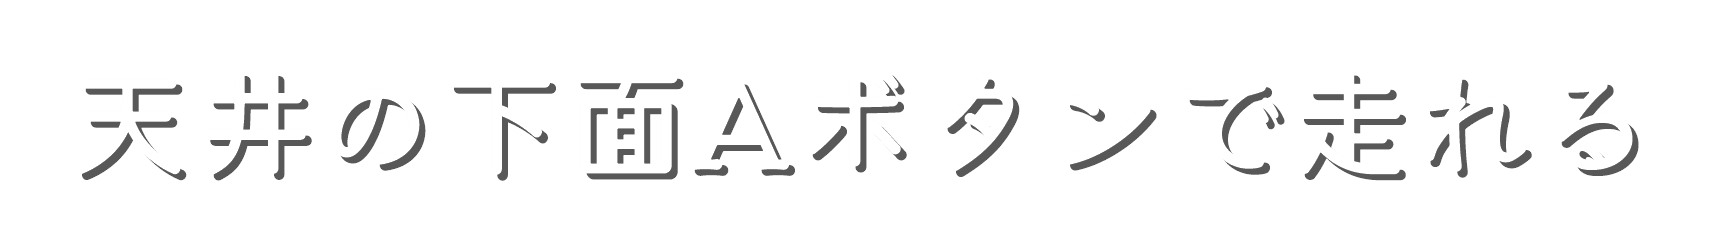
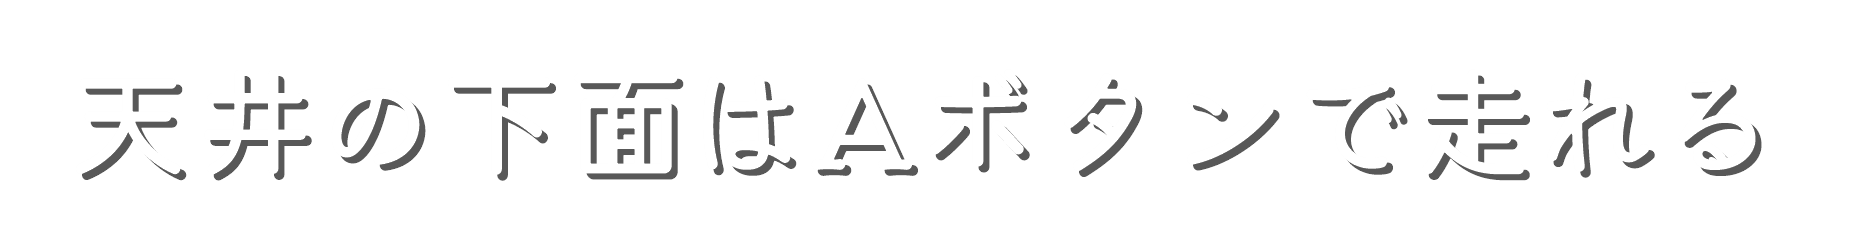
文字を重複して生成しないように修正

Changed region(s): [[0.0312, 0.3143, 0.9688, 0.7429], [0.4688, 0.3429, 0.625, 0.4], [0.7812, 0.3143, 0.8125, 0.3429]]

diff --git a/project/application/scene/GamePlayScene.cpp b/project/application/scene/GamePlayScene.cpp
@@ -186,15 +186,6 @@ void GamePlayScene::Initialize() {
 	// Load the single well model so it can be placed in the scene
 	ModelManager::GetInstance()->LoadModel("well", "well.obj");
 
-	object3d_ = std::make_unique<Object3d>();
-	object3d_->Initialize(Object3dCommon::GetInstance());
-	object3d_->SetModel("human_re.gltf");
-	object3d_->SetCamera(camera_.get());
-	object3d_->SetTranslate({0.0f, 0.0f, 5.0f});
-	object3d_->SetRotate({0.0f, std::numbers::pi_v<float>, 0.0f});
-	object3d_->SetColor({0.5f, 0.5f, 0.5f, 1.0f});
-	object3d_->SetUseEnvironmentMap(true); // 環境マップ
-
 	// Create the well object and place it at a fixed position only if model is loaded
 	if (Object3dCommon::GetInstance() && camera_) {
 		// Ensure model was actually loaded
@@ -755,20 +746,6 @@ void GamePlayScene::Update() {
 		ParticleManager::GetInstance()->SetExternalInstanceCount("xp_orb", numInst);
 	}
 
-	if (Input::GetInstance()->IsTriggerKey(DIK_0)) {
-		object3d_->StopAnimation();
-	}
-	if (Input::GetInstance()->IsTriggerKey(DIK_9)) {
-		object3d_->StopAnimation(0.5f);
-	}
-	if (Input::GetInstance()->IsPushKey(DIK_1)) {
-		object3d_->PlayAnimation("walk", true, 0.1f);
-	}
-	if (Input::GetInstance()->IsTriggerKey(DIK_2)) {
-		object3d_->PlayAnimation("sneakWalk", true, 0.1f);
-	}
-
-	object3d_->Update();
 	if (wellObject_) {
 		wellObject_->Update();
 	}
@@ -783,7 +760,6 @@ void GamePlayScene::Draw() {
 		wellObject_->Draw();
 	}
 
-	object3d_->Draw();
 	// --- 不透明オブジェクトの描画 ---
 	stage_->Draw();
 	stageEditor_->Draw();

diff --git a/project/application/UI/RuntimeTextTextureGenerator.cpp b/project/application/UI/RuntimeTextTextureGenerator.cpp
@@ -114,6 +114,18 @@ unsigned char RuntimeTextTextureGenerator::ToColorByte(float value)
 
 bool RuntimeTextTextureGenerator::GeneratePng(const GenerateDesc& desc)
 {
+
+	if (desc.outputFilePath.empty()) {
+		return false;
+	}
+
+	// 既に生成済みなら、同じPNGを作り直さない
+	if (!desc.overwriteIfExists &&
+		std::filesystem::exists(desc.outputFilePath)) {
+		return true;
+	}
+
+
 	if (!EnsureGdiplusInitialized()) {
 		return false;
 	}

diff --git a/project/application/scene/TutorialScene.cpp b/project/application/scene/TutorialScene.cpp
@@ -595,12 +595,7 @@ void TutorialScene::GenerateTutorialMessageSprites()
 	tutorialKeyboardMessageSprites_.reserve(tutorialStepDefinitions_.size());
 	tutorialGamepadMessageSprites_.reserve(tutorialStepDefinitions_.size());
 
-	static int generationId = 0;
-	++generationId;
-
-	const std::string prefix =
-		"resources/generated_ui/tutorial_" +
-		std::to_string(generationId) + "_";
+	const std::string prefix = "resources/generated_ui/tutorial_";
 
 	for (size_t i = 0; i < tutorialStepDefinitions_.size(); ++i) {
 		const std::string keyboardPath =

diff --git a/project/application/scene/TitleScene.cpp b/project/application/scene/TitleScene.cpp
@@ -599,12 +599,6 @@ void TitleScene::Draw()
 		tutorialPos,
 		selectItem_ == MenuItem::Tutorial ? kColorAccent_ : kColorNormal_
 	);
-
-	DrawTextSprite(
-		textSprites_["guide"].get(),
-		{ 700.0f, 620.0f },
-		kColorInactive_
-	);
 }
 
 void TitleScene::DrawTextSprite(Sprite* sprite, const Vector2& pos, const Vector4& color)

diff --git a/project/application/UI/RuntimeTextTextureGenerator.h b/project/application/UI/RuntimeTextTextureGenerator.h
@@ -11,6 +11,8 @@ public:
 		std::string fontFilePath;
 		std::string outputFilePath;
 
+		bool overwriteIfExists = false;
+
 		int fontPixelSize = 40;
 		int paddingX = 24;
 		int paddingY = 16;

diff --git a/project/engine/base/WinApp.cpp b/project/engine/base/WinApp.cpp
@@ -97,7 +97,7 @@ void WinApp::Initialize() {
 	// ウィンドウの生成
 	hwnd_ = CreateWindow(
 		wc_.lpszClassName,                    // 利用するクラス名
-		L"LE3C_21_ミヤザキ_ユウタ",			  // タイトルバーの文字
+		L"3144_跳びざかり",			  // タイトルバーの文字
 		WS_OVERLAPPEDWINDOW,				  // よく見るウィンドウスタイル
 		CW_USEDEFAULT,						  // 表示X座標(Windowに任せる)
 		CW_USEDEFAULT, wrc.right - wrc.left,  // 表示Y座標(WindowOSに任せる)

diff --git a/project/application/scene/GamePlayScene.h b/project/application/scene/GamePlayScene.h
@@ -64,7 +64,6 @@ private:
 	std::unique_ptr<Camera> camera_ = nullptr;
 	std::unique_ptr<DebugCamera> debugCamera_;
 
-	std::unique_ptr<Object3d> object3d_;
 	// Single static well object placed in the scene
 	std::unique_ptr<Object3d> wellObject_;
 	std::unique_ptr<Player> player_;